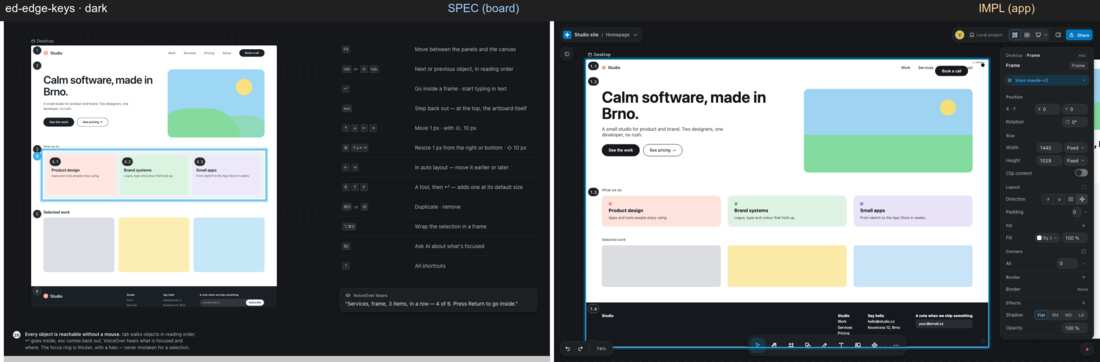
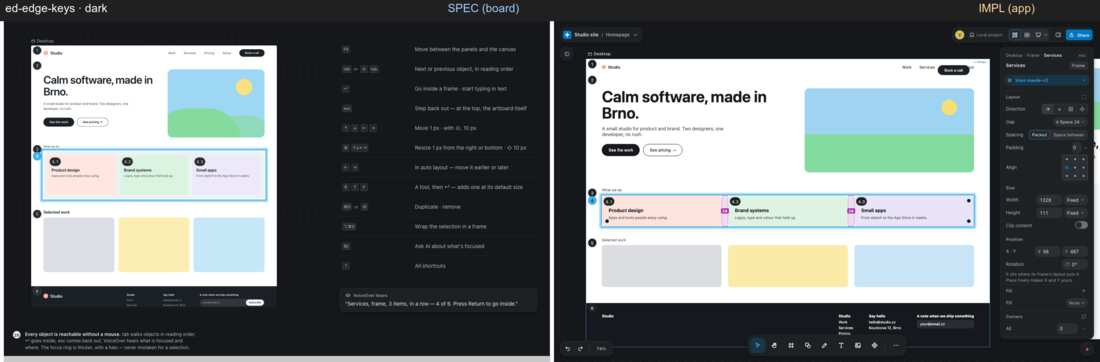
V2-8.5 c7-edit3: stage D — 14 ed-inspector, ed-edge-keys, ed-edge-paste, ed-obj-order re-shot (light + dark), harness _c7e3, fix report continuation

diff --git a/.ai/plans/notes/v2-evidence/phase8-fidelity/_c7e3-harness-g5/Homepage.tsx b/.ai/plans/notes/v2-evidence/phase8-fidelity/_c7e3-harness-g5/Homepage.tsx
@@ -1,0 +1,81 @@
+import { DCArtboard, DCSection, DesignCanvas } from "@maude/canvas-lib";
+
+const card = (bg: string, dot: string, t: string, d: string) => (
+  <div data-cd-id={`card-${t.split(" ")[0].toLowerCase()}`} aria-label={t} style={{ flex: 1, background: bg, borderRadius: "var(--radius-lg)", padding: "var(--space-5)", display: "flex", flexDirection: "column", gap: "var(--space-2)" }}>
+    <span style={{ width: 12, height: 12, borderRadius: 6, background: dot }} />
+    <strong style={{ fontSize: 17 }}>{t}</strong>
+    <span style={{ fontSize: 13, color: "#555" }}>{d}</span>
+  </div>
+);
+
+const Hero = ({ w }: { w: number }) => (
+  <div style={{ width: w, background: "#fff", color: "#16181d", fontFamily: "system-ui, sans-serif", position: "relative" }}>
+    <div data-cd-id="nav" aria-label="Nav" style={{ position: "relative", display: "flex", alignItems: "center", gap: 28, padding: "20px 56px", fontSize: 14 }}>
+      <span style={{ display: "flex", alignItems: "center", gap: 8, fontWeight: 600, marginRight: "auto" }}>
+        <b style={{ width: 14, height: 14, borderRadius: 7, background: "#f7a38d", display: "inline-block" }} />Studio
+      </span>
+      <span>Work</span><span>Services</span><span>Pricing</span><span>About</span>
+      <button data-cd-id="book" aria-label="Book a call" data-cd-link="https://cal.com/studio" data-hover="lift-floating" style={{ position: "absolute", right: 72, top: 22, border: 0, display: "inline-flex", gap: "var(--space-2)", padding: "10px var(--space-5)", backgroundColor: "var(--fg-0)", color: "var(--bg-0)", borderRadius: "var(--radius-pill)", boxShadow: "var(--shadow-sm)" }}>Book a call</button>
+    </div>
+    <div aria-label="Hero" style={{ display: "flex", gap: 40, padding: "48px 56px" }}>
+      <div style={{ flex: 1 }}>
+        <h1 data-cd-id="headline" aria-label="Headline" style={{ fontSize: 56, lineHeight: 1.05, margin: 0, fontWeight: 650 }}>Calm software, made in Brno.</h1>
+        <p data-cd-id="sub" aria-label="Sub" style={{ fontSize: 17, color: "#555", maxWidth: 440 }}>A small studio for product and brand. Two designers, one developer, no rush.</p>
+        <div aria-label="Buttons" style={{ display: "flex", gap: 12, marginTop: 24 }}>
+          <button data-cd-id="see-work" aria-label="See the work" style={{ background: "#16181d", color: "#fff", border: 0, padding: "10px var(--space-5)", borderRadius: "var(--radius-pill)", fontSize: 15 }}>See the work</button>
+          <button data-cd-id="see-pricing" aria-label="See pricing" style={{ background: "#fff", color: "#16181d", border: "1px solid #16181d", padding: "12px 22px", borderRadius: 999, fontSize: 15 }}>See pricing →</button>
+        </div>
+      </div>
+      <div data-cd-id="hero-art" aria-label="Picture" style={{ width: w * 0.42, height: 300, borderRadius: 16, background: "linear-gradient(#9fd3f2, #9fd3f2 55%, #84dba0 55%)", position: "relative", overflow: "hidden" }}>
+        <span style={{ position: "absolute", right: 60, top: 40, width: 56, height: 56, borderRadius: 28, background: "#f6df74" }} />
+      </div>
+    </div>
+    <p data-cd-id="eyebrow" aria-label="What we do" style={{ fontSize: 13, color: "#555", margin: "8px 56px 12px" }}>What we do</p>
+    <div data-cd-id="services" aria-label="Services" style={{ display: "flex", gap: "var(--space-5)", margin: "0 56px" }}>
+      {card("#fde3dc", "#f4947d", "Product design", "Apps and tools people enjoy using.")}
+      {card("#dff3e4", "#5cc27d", "Brand systems", "Logos, type and colour that hold up.")}
+      {card("#e9e4f7", "#9a86e0", "Small apps", "From sketch to the App Store in weeks.")}
+    </div>
+    <div data-cd-id="work" aria-label="Work" style={{ padding: "0 56px" }}>
+      <p style={{ fontSize: 13, color: "#555", margin: "40px 0 12px" }}>Selected work</p>
+      <div style={{ display: "flex", gap: 24 }}>
+        <i style={{ flex: 1, height: 150, background: "#dcdde1", borderRadius: 10 }} />
+        <i style={{ flex: 1, height: 150, background: "#fbeaa8", borderRadius: 10 }} />
+        <i style={{ flex: 1, height: 150, background: "#c9e4f7", borderRadius: 10 }} />
+      </div>
+    </div>
+    <div data-cd-id="footer" aria-label="Footer" style={{ marginTop: 56, background: "#16181d", color: "#fff", padding: "40px 56px", display: "flex", gap: 56, fontSize: 13 }}>
+      <b style={{ marginRight: "auto" }}>Studio</b>
+      <span style={{ display: "flex", flexDirection: "column", gap: 6 }}><strong>Studio</strong><span>Work</span><span>Services</span><span>Pricing</span></span>
+      <span style={{ display: "flex", flexDirection: "column", gap: 6 }}><strong>Say hello</strong><span>hello@studio.cz</span><span>Kounicova 12, Brno</span></span>
+      <span style={{ display: "flex", flexDirection: "column", gap: 6 }}><strong>A note when we ship something</strong><span style={{ background: "#2a2d35", padding: "8px 12px", borderRadius: 8 }}>your@email.cz</span></span>
+    </div>
+  </div>
+);
+
+export default function Homepage() {
+  return (
+    <DesignCanvas>
+      <DCSection id="home" title="Homepage" subtitle="Desktop, tablet, mobile">
+        <DCArtboard id="desktop" label="Desktop" width={1440} height={1000} kind="web">
+          <Hero w={1440} />
+        </DCArtboard>
+        <DCArtboard id="tablet" label="Tablet" width={768} height={1000} kind="web">
+          <div style={{ width: 768, background: "#fff", fontFamily: "system-ui, sans-serif", padding: 32, color: "#16181d" }}>
+            <div style={{ height: 220, borderRadius: 16, background: "linear-gradient(#9fd3f2, #9fd3f2 55%, #84dba0 55%)" }} />
+            <h1 style={{ fontSize: 40, margin: "24px 0 8px" }}>Calm software, made in Brno.</h1>
+            <p style={{ color: "#555" }}>A small studio for product and brand.</p>
+            <button style={{ background: "#16181d", color: "#fff", border: 0, padding: "12px 22px", borderRadius: 999 }}>See the work</button>
+          </div>
+        </DCArtboard>
+        <DCArtboard id="mobile" label="Mobile" width={390} height={844} kind="web">
+          <div style={{ width: 390, background: "#fff", fontFamily: "system-ui, sans-serif", padding: 20, color: "#16181d" }}>
+            <div style={{ height: 150, borderRadius: 14, background: "linear-gradient(#9fd3f2, #9fd3f2 55%, #84dba0 55%)" }} />
+            <h1 style={{ fontSize: 30, margin: "20px 0 8px" }}>Calm software, made in Brno.</h1>
+            <button style={{ background: "#16181d", color: "#fff", border: 0, padding: "12px 22px", borderRadius: 999 }}>See the work</button>
+          </div>
+        </DCArtboard>
+      </DCSection>
+    </DesignCanvas>
+  );
+}

diff --git a/.ai/plans/notes/v2-evidence/phase8-fidelity/14-editing/fix-c7-edit.md b/.ai/plans/notes/v2-evidence/phase8-fidelity/14-editing/fix-c7-edit.md
@@ -45,3 +45,24 @@ Branch `p8-c7-edit2` (from feat/maude-v2 e5833ffc4). Commits: 22cfd8527 (Uses ro
 3. ed-inspector Advanced is 06's (Element / POS / SIZE rows, "Tokens it uses" as `--token` rows) — not 14's Tokens chips / CSS block / Constraints diagram.
 4. ed-edge-keys: focus does not land on the "Services" row in the fixture (the walk stops on the page frame, discs 1.1–1.4 are drawn); ed-edge-paste shows no paste bar ("Pasted from Figma as an image…") — the synthetic ClipboardEvent is not taken in this state.
 5. Fixture content (cards 111 px high, "Ink" is "Black", no Alligators "Plakát" style, Datum is a Text) differs from the board's story.
+
+# Continuation — p8-c7-edit3 (round 7, third builder)
+
+Branch `p8-c7-edit3` (from feat/maude-v2 2f43303f4). Commits: b35a71bcd (Advanced), e38faf885 (keys, paste), + the stage-D/docs commit.
+
+## Done
+| item | change | test (red → green, reverted once) |
+| --- | --- | --- |
+| (1) ed-inspector Advanced | an OBJECT's fold now reads in board 14's order — CSS (one soft row per declaration, property left / value right) · **Tokens it uses as chips** (Space 24 · Round · Resting; a colour carries its swatch; the system's own names) · Element id (its own block under its own title) · Copy CSS · Convert layout to absolute · Copy style / Paste style / Copy code — then 06's rows (Element Tag · Classes · Selector · facts, Used in), and the v1 raw editor LAST. One registry, a second view of it (`advanced.jsx ObjectGroups`: slots naming a group + only/not row ids): row ids, groups and the artboard fold are unchanged; Convert moved from group `css` to `in-code` (order 15). Constraints stays in Position (that is where 14 draws it) | `v2-inspector-advanced` (order, golden, chips, id block), `v2-inspector-render`, `v2-inspector-layout-frame` |
+| (2) ed-edge-keys | the page root is the artboard, not an object, for Tab too (`tab-order.tsx levelParent`; `pageRootOf` takes an optional rect reader so the walk stays pure over `Measure`): Tab from the artboard lands on Nav · Hero · What we do · **Services**; discs 1…6 are numbered under the page (no 1.x) and sit in the page's left margin (`edge`), the cards carry 4.1…4.3 | `v2-edit-keyboard` (5 new) |
+| (3) ed-edge-paste | the paste WAS taken — the old harness dispatched the synthetic event on the shell document, the listener lives in the canvas frame. Dispatched inside the frame with Figma's html + a picture it draws the bar ("Pasted from Figma as an image of “Hero / v3”.") under the placed picture. Product: a Figma-pasted picture opens on its **Image** card (From Figma · Hero / v3 · W · H · Fit), not on 12's Photo card (`opensOnPhotoCard`), and is named by its frame in title and crumb (`titleOf`, `crumbNodeOf`) | `p8-c7-edit3-paste-image` (3), `v2-inspector-model` |
+| (4) ed-obj-order | harness: Layers rows for a locked object (Sub) and a hidden one (Headline), the Frame selection result (a Frame around the two buttons), the object menu fully open on "See the work" (the menu on Book a call is clipped by the right edge); side shots `ed-obj-order-nudge` (Y tag + distance chip) and `ed-obj-order-locked` ("Sub is locked · ⇧⌘L unlocks") | — |
+
+Harness: `_c7e3-harness-g5/` (fixture flattened to board 14's top level; s14e = keys + paste; s14f = obj-order + side shots; s14g = ed-inspector alone with Advanced open — the reorder drag of s14b leaves the Services row moved in the flat fixture).
+
+## Open
+1. Patterns group in the picker stays hidden (nothing placeable backs it).
+2. ed-obj-order: Frame selection is shown as its AFTER state only; the nudge chip and the lock tip are in the side shots (a menu and a hover tip, or a nudge and a right-click on its handles, cannot coexist).
+3. ed-edge-paste: the picture is placed loose BELOW the page (`image.place` `mode: loose`), the board draws it over the hero; "Make editable" stays unoffered until S8.17 (standing decision). The Photo seg + Adjust rows are 12's.
+4. A `background: var(--token)` SHORTHAND never reaches Tokens it uses / the CSS list in Chromium (the CSSOM keeps no longhand values for a var() shorthand; `dom-selection.ts` reads longhands) — the fixture uses `background-color`. Worth a follow-up.
+5. ed-inspector: the CSS block lists every authored declaration (the fixture's position / top / right / aria-label rows too) where the board draws six; Layers lists the page root as a row once an edit makes the page shorter than its artboard.

diff --git a/.ai/plans/notes/v2-evidence/phase8-fidelity/14-editing/INDEX.md b/.ai/plans/notes/v2-evidence/phase8-fidelity/14-editing/INDEX.md
@@ -481,3 +481,18 @@ Re-shot: every 14 id except ed-edge-tereza (needs a second browser; kept from D4
 | `ed-text-edit` | light | re-shot | spec reused (board unchanged since the stage-A shot) |
 | `ed-text-style` | dark | re-shot | spec reused (board unchanged since the stage-A shot) |
 | `ed-text-style` | light | re-shot | spec reused (board unchanged since the stage-A shot) |
+
+## After (stage D, round 7 · p8-c7-edit3)
+
+Re-shot, both themes: ed-inspector, ed-edge-keys, ed-edge-paste, ed-obj-order (the other 14 ids keep their round-7 edit2 pairs). Harness `_c7e3-harness-g5/` (flat fixture; s14e keys + paste; s14f obj-order; s14g inspector). Changed in the product: an object's Advanced fold reads CSS · Tokens it uses (chips) · Element id · Copy CSS · Convert layout (06's rows below, the v1 editor last); Tab walks the sections under the page (the page root is the artboard) with discs 1…6 in the page margin; a Figma-pasted picture opens on its Image card named by its frame. Side shots (not pairs): `side/ed-obj-order-nudge-{light,dark}.jpg`, `side/ed-obj-order-locked-{light,dark}.jpg`.
+
+| id | theme | status | spec |
+| --- | --- | --- | --- |
+| `ed-edge-keys` | dark | re-shot | spec reused (board unchanged since the stage-A shot) |
+| `ed-edge-keys` | light | re-shot | spec reused (board unchanged since the stage-A shot) |
+| `ed-edge-paste` | dark | re-shot | spec reused (board unchanged since the stage-A shot) |
+| `ed-edge-paste` | light | re-shot | spec reused (board unchanged since the stage-A shot) |
+| `ed-inspector` | dark | re-shot | spec reused (board unchanged since the stage-A shot) |
+| `ed-inspector` | light | re-shot | spec reused (board unchanged since the stage-A shot) |
+| `ed-obj-order` | dark | re-shot | spec reused (board unchanged since the stage-A shot) |
+| `ed-obj-order` | light | re-shot | spec reused (board unchanged since the stage-A shot) |
